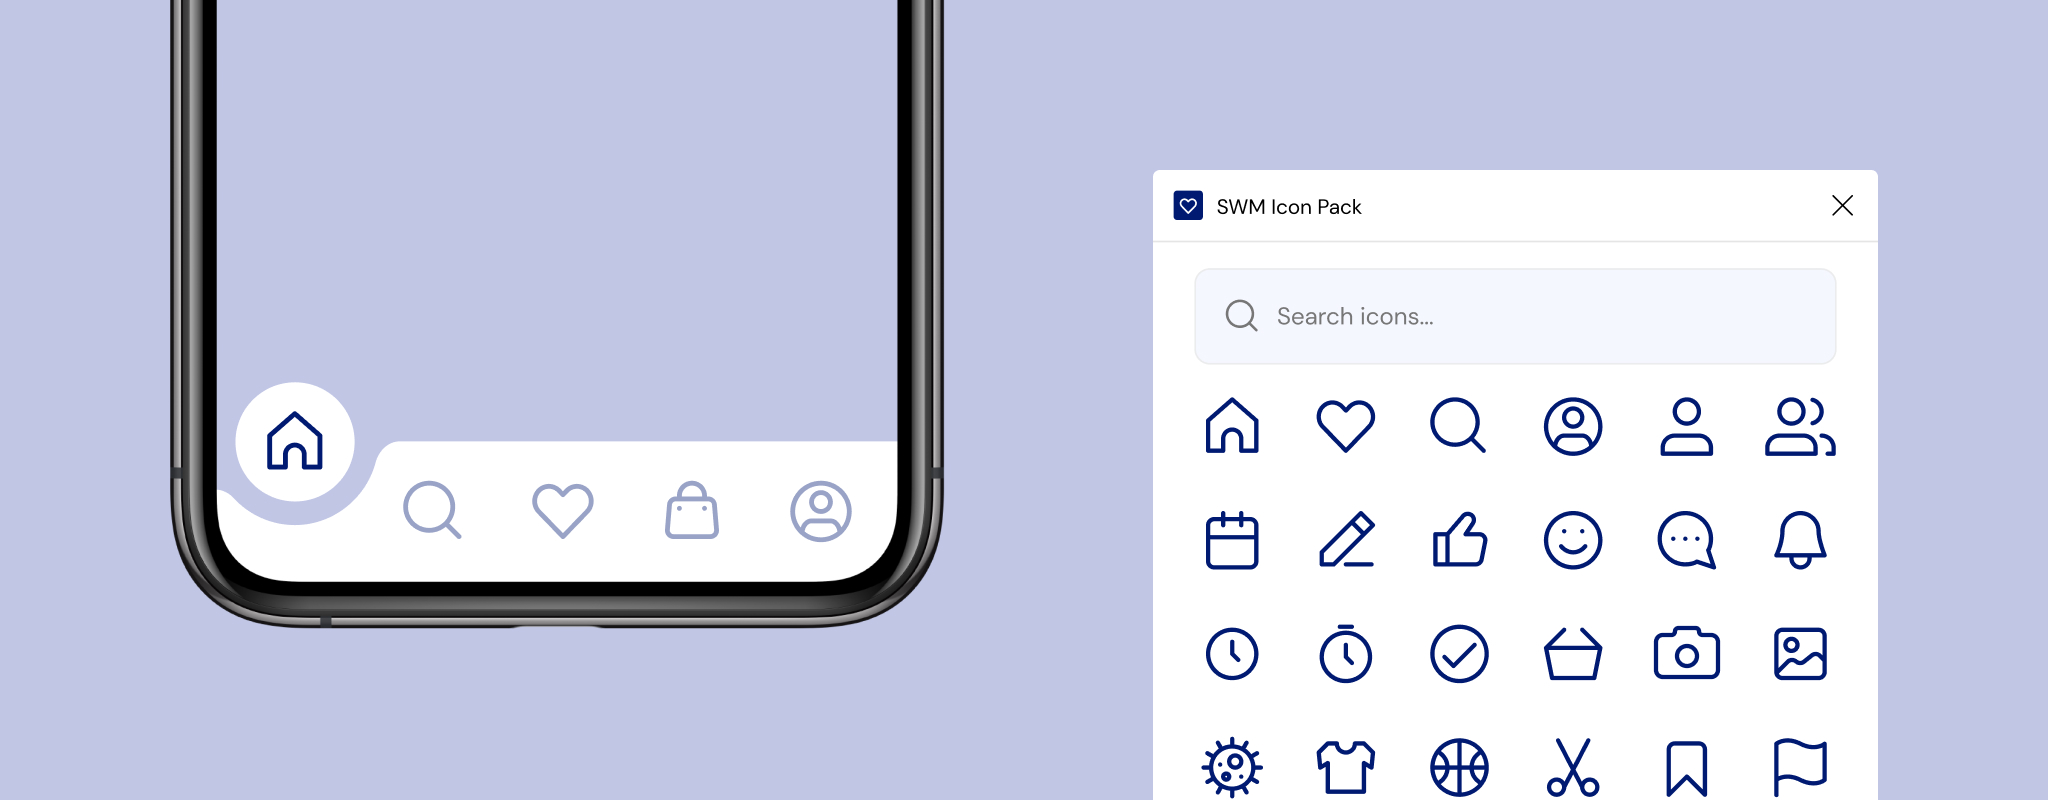
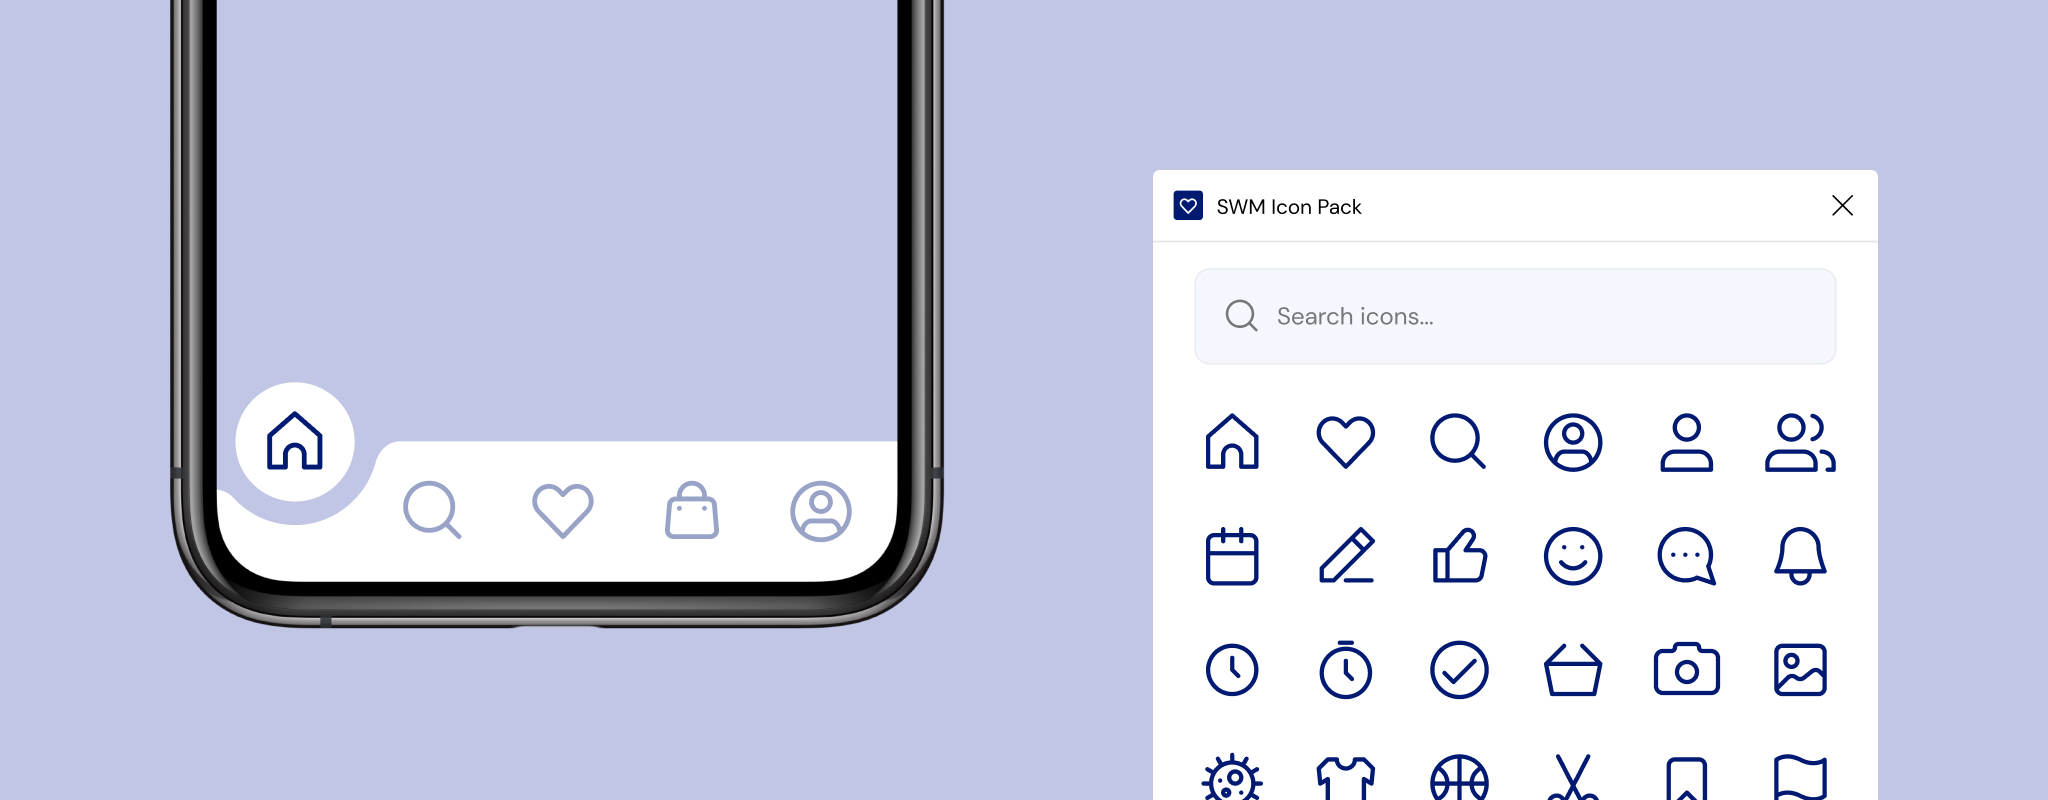
Rename Gift1 to Gift, change README image

diff --git a/src/assets/icons.js b/src/assets/icons.js
@@ -585,9 +585,9 @@ export const icons = [
         Icon: SWMIcons.Fullscreen,
     },
     {
-        name: 'gift1',
+        name: 'gift',
         tags: ['present', 'box'],
-        Icon: SWMIcons.Gift1,
+        Icon: SWMIcons.Gift,
     },
     {
         name: 'globe1',
